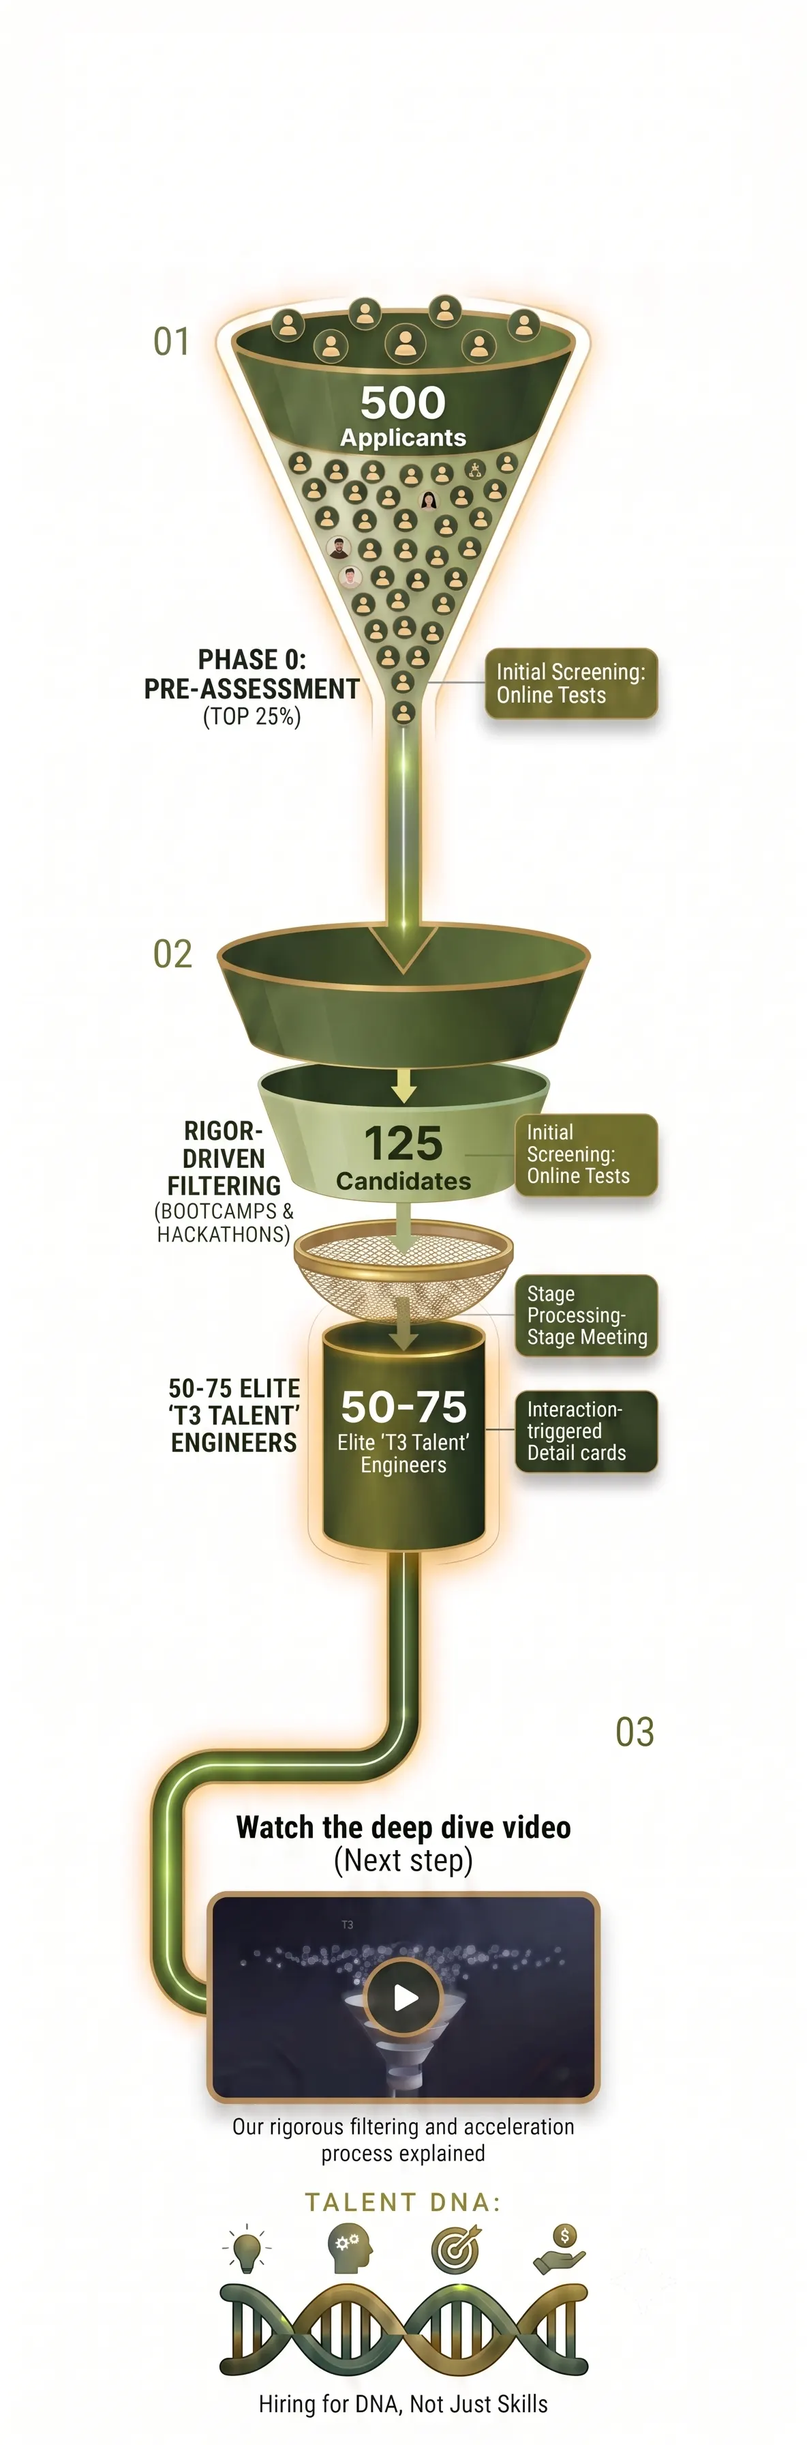
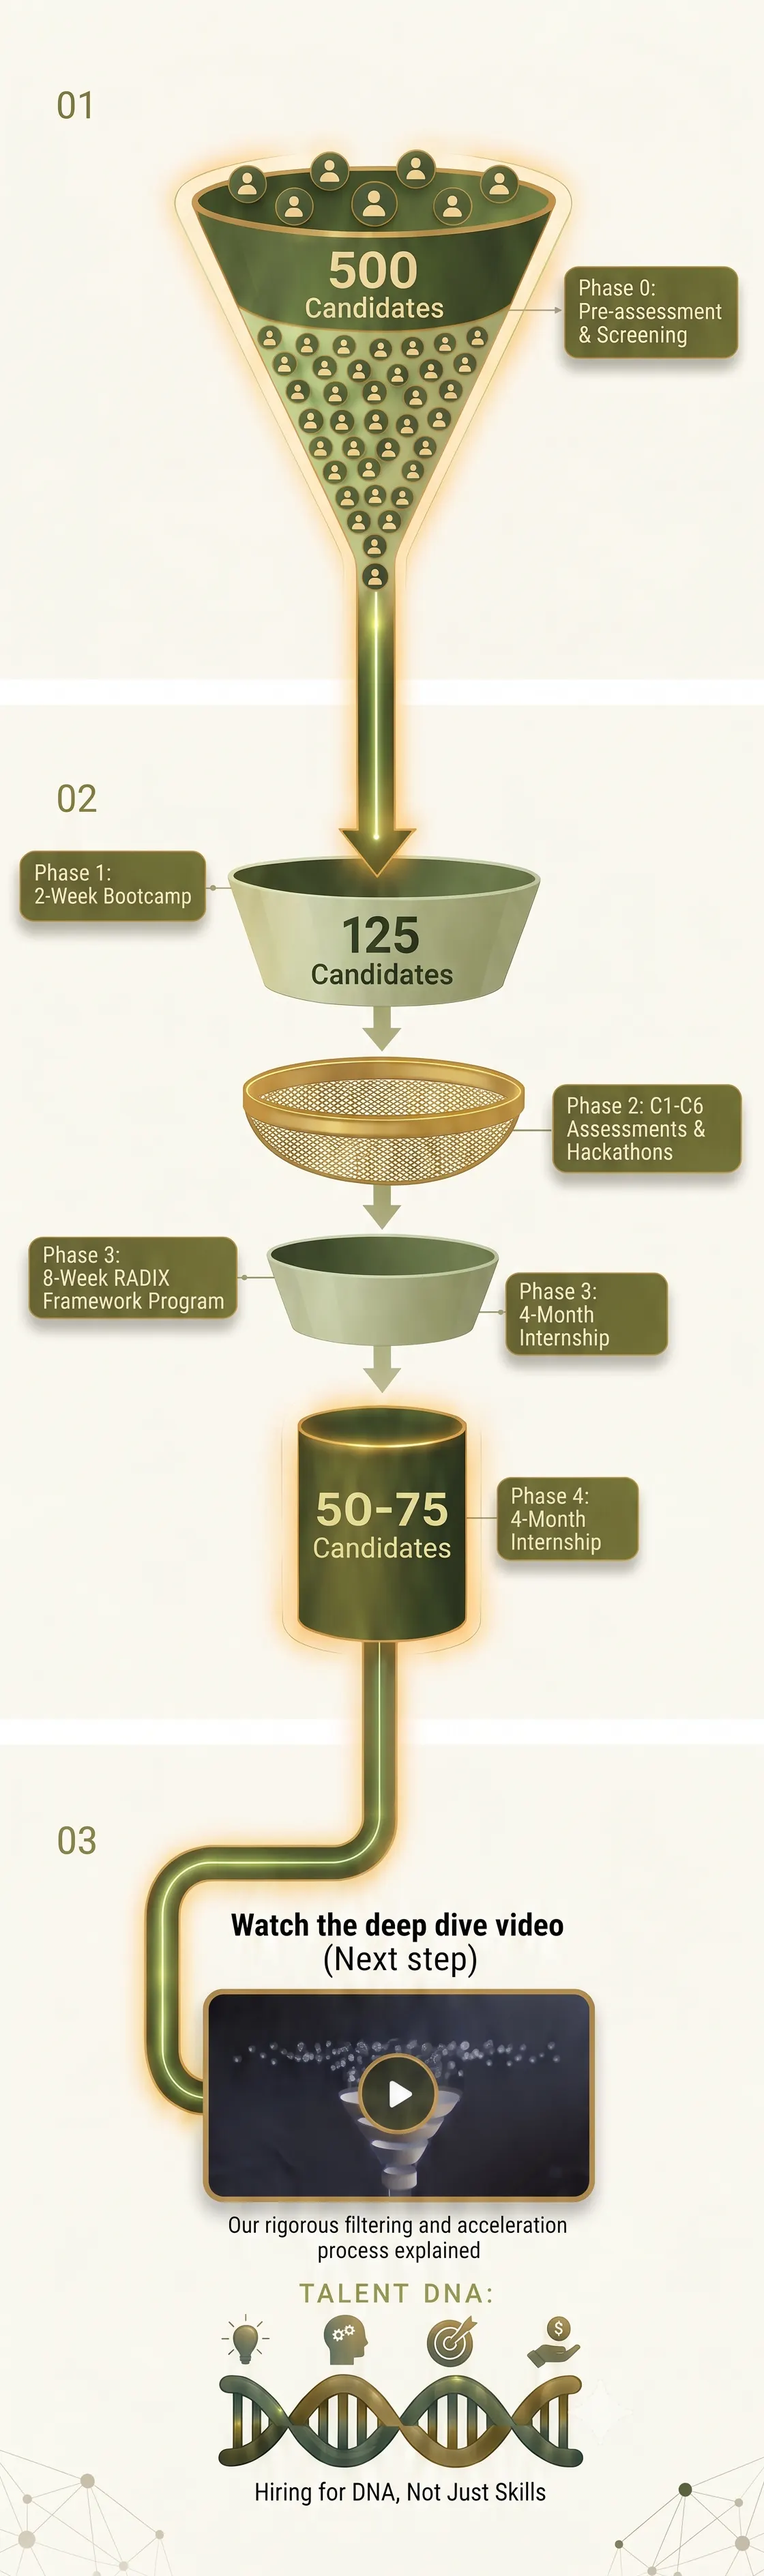
feat: update funnel and made responsive

diff --git a/src/components/PrecisionPipeline.tsx b/src/components/PrecisionPipeline.tsx
@@ -17,20 +17,9 @@ const EDGE_FADE: React.CSSProperties = {
   WebkitMaskComposite: 'source-in',
 };
 
-const PAPER = '#f5f5f0';
-
 // The tall artwork has its copy, video still and play button drawn in, so only the video needs a
-// live control. Shown is its content box, x 189-995 and y 400-3576 of 1184x3584; everything on top
-// is placed in % of that box. Its paper is white, so it is multiplied onto the page colour.
-// Drawn into the artwork but not part of the design: the 01 / 02 / 03 screen markers and a
-// faint sparkle mark beside the DNA strand.
-const MOBILE_COVERS = [
-  { left: '2.85%', top: '2.015%', width: '9.31%', height: '2.204%' },
-  { left: '2.85%', top: '30.29%', width: '10.3%', height: '2.204%' },
-  { left: '87.1%', top: '66.18%', width: '10.05%', height: '2.236%' },
-  { left: '88.83%', top: '90.37%', width: '11.17%', height: '4.72%' },
-];
-
+// live control, placed in % of the image. Its paper is a shade off the page colour, with white
+// bands between its screens, so it is darken-blended onto the page colour to lose both.
 function MobilePipeline() {
   return (
     <div className="relative">
@@ -58,35 +47,26 @@ function MobilePipeline() {
         whileInView={{ opacity: 1, y: 0 }}
         viewport={{ once: true, amount: 0.05 }}
         transition={{ duration: 0.7 }}
-        className="relative mx-auto aspect-[806/3176] w-full max-w-[30rem] overflow-hidden [container-type:inline-size]"
-        style={{ backgroundColor: PAPER }}
+        className="relative mx-auto aspect-[1120/3776] w-full max-w-[30rem] bg-[#f5f5f0] [container-type:inline-size]"
       >
         <img
           src={FUNNEL_MOBILE}
-          alt="Selection pipeline. Phase 0 pre-assessment: 500 applicants are screened with online tests and the top 25% go through. Rigor-driven filtering: 125 candidates are narrowed through bootcamps and hackathons into 50 to 75 elite T3 Talent engineers. Next step: watch the deep dive video explaining our filtering and acceleration process. Talent DNA: hiring for DNA, not just skills."
-          className="absolute max-w-none mix-blend-multiply"
-          style={{ width: '146.9%', left: '-23.449%', top: '-12.594%' }}
+          alt="Selection pipeline. 500 candidates enter Phase 0 pre-assessment and screening. 125 candidates go through the Phase 1 two-week bootcamp, the Phase 2 C1-C6 assessments and hackathons and the Phase 3 eight-week RADIX framework program, and 50 to 75 candidates reach the Phase 4 four-month internship. Next step: watch the deep dive video explaining our filtering and acceleration process. Talent DNA: hiring for DNA, not just skills."
+          className="absolute inset-0 h-full w-full mix-blend-darken"
         />
-        {MOBILE_COVERS.map((box) => (
-          <div
-            key={box.top}
-            aria-hidden="true"
-            className="absolute"
-            style={{ ...box, backgroundColor: PAPER }}
-          />
-        ))}
         {/* sits on the drawn video frame; the launcher's own preview stays hidden so the artwork shows */}
         <VideoLauncher
           src={VIDEO_SRC}
           label="Play the deep dive video"
-          className="absolute left-[14.02%] top-[74.685%] h-[9.761%] w-[71.71%] rounded-[3.4cqw] focus-visible:outline-2 focus-visible:outline-offset-2 focus-visible:outline-[#4a5d23] [&>video]:opacity-0"
+          className="absolute left-[26.52%] top-[77.17%] h-[8.34%] w-[51.43%] rounded-[2cqw] focus-visible:outline-2 focus-visible:outline-offset-2 focus-visible:outline-[#4a5d23] [&>video]:opacity-0"
         />
       </motion.div>
     </div>
   );
 }
 
-// The artwork has wide empty margins, so only its content box is shown: x 7.15%-91%, y 26.5%-96%, so the content sits centred.
+// The artwork has wide empty margins, so only its content box is shown: x 3.5%-91%, y 8.5%-96%, so the content sits centred.
+// The tier numbers and phase labels are drawn into the artwork.
 // Overlays are positioned in % of that box and sized in cqw, so it scales like one picture.
 // Below md the tall MobilePipeline artwork is rendered instead.
 export default function PrecisionPipeline() {
@@ -134,44 +114,30 @@ function DesktopPipeline() {
           whileInView={{ opacity: 1, y: 0 }}
           viewport={{ once: true }}
           transition={{ duration: 0.7 }}
-          className="relative mx-auto aspect-[1677/780] w-full min-w-[51.25rem] [container-type:inline-size]"
+          className="relative mx-auto aspect-[2750/1536] w-full min-w-[51.25rem] [container-type:inline-size]"
         >
           <div className="absolute inset-0 overflow-hidden" style={EDGE_FADE}>
             <img
               src={FUNNEL}
-              alt="Selection funnel: 500 applicants are screened online, narrowed through bootcamps and hackathons, and emerge as 50 to 75 elite T3 Talent engineers."
+              alt="Selection funnel: 500 candidates enter Phase 0 pre-assessment and screening, 125 candidates go through the Phase 1 two-week bootcamp, the Phase 2 C1-C6 assessments and hackathon and the Phase 3 eight-week RADIX framework program, and 50 to 75 candidates reach the Phase 4 four-month internship."
               className="absolute max-w-none"
-              style={{ width: '119.26%', left: '-8.527%', top: '-38.129%' }}
+              style={{ width: '114.286%', left: '-4%', top: '-9.714%' }}
             />
             {/* covers the sparkle mark baked into the artwork's corner */}
             <div
               aria-hidden="true"
-              className="absolute left-[97.6%] top-[78.4%] h-[10.8%] w-[6.5%] bg-[radial-gradient(circle,#f1eee4_55%,transparent_75%)]"
+              className="absolute left-[97.7%] top-[82.85%] h-[8.6%] w-[6.2%] bg-[radial-gradient(circle,#f5f5f0_55%,transparent_75%)]"
             />
           </div>
 
-          {/* numbers on the funnel tiers */}
-          <p className="absolute left-[28.4%] top-[23.5%] -translate-x-1/2 -translate-y-1/2 whitespace-nowrap font-bold text-white drop-shadow">
-            <span className="text-[3.1cqw]">500</span>{' '}
-            <span className="text-[1.75cqw]">Applicants</span>
-          </p>
-          <p className="absolute left-[28.4%] top-[43.3%] -translate-x-1/2 -translate-y-1/2 text-center font-bold leading-[1.05] text-[#1f2a10]">
-            <span className="block text-[3.35cqw]">125</span>
-            <span className="block text-[1.75cqw]">Candidates</span>
-          </p>
-          <p className="absolute left-[28.8%] top-[77%] w-[11.5cqw] -translate-x-1/2 -translate-y-1/2 text-center font-bold leading-[1.05] text-white drop-shadow">
-            <span className="block text-[3.1cqw]">50-75</span>
-            <span className="block text-[1.15cqw]">Elite &lsquo;T3 Talent&rsquo; Engineers</span>
-          </p>
-
           {/* video, joined to the funnel by the pipe in the artwork */}
-          <p className="absolute left-[63.5%] top-[2.4%] w-[34%] whitespace-nowrap text-center text-[1.5cqw] font-semibold leading-none tracking-tight text-[#232621]">
+          <p className="absolute left-[65%] top-[22.5%] w-[32.6%] whitespace-nowrap text-center text-[1.45cqw] font-semibold leading-none tracking-tight text-[#232621]">
             Watch the deep dive video <span className="font-medium">(Next step)</span>
           </p>
           <VideoLauncher
             src={VIDEO_SRC}
             label="Play the deep dive video"
-            className="absolute left-[65.6%] top-[9.6%] aspect-[2/1] w-[29.8%] rounded-[1.45cqw] border-[0.5cqw] border-[#b79b55] bg-[#0b1220] shadow-xl"
+            className="absolute left-[67.04%] top-[28.2%] aspect-[2/1] w-[28.56%] rounded-[1.45cqw] border-[0.5cqw] border-[#b79b55] bg-[#0b1220] shadow-xl"
           >
             <span className="absolute inset-0 grid place-items-center">
               <span className="relative grid h-[5cqw] w-[5cqw] place-items-center transition-transform duration-300 group-hover:scale-105">
@@ -192,15 +158,15 @@ function DesktopPipeline() {
               </span>
             </span>
           </VideoLauncher>
-          <p className="absolute left-[65.6%] top-[43.3%] w-[29.8%] text-center text-[1.5cqw] leading-snug text-gray-800">
+          <p className="absolute left-[67.04%] top-[55%] w-[28.56%] text-center text-[1.45cqw] leading-snug text-gray-800">
             Our rigorous filtering and acceleration process explained
           </p>
 
           {/* talent DNA */}
-          <p className="absolute left-[65.6%] top-[55.4%] w-[29.8%] text-center text-[1.7cqw] font-semibold uppercase leading-none tracking-[0.18em] text-[#4a5d23]">
+          <p className="absolute left-[67.04%] top-[64.6%] w-[28.56%] text-center text-[1.65cqw] font-semibold uppercase leading-none tracking-[0.18em] text-[#4a5d23]">
             Talent DNA:
           </p>
-          <p className="absolute left-[65.6%] top-[91.4%] w-[29.8%] text-center text-[1.55cqw] font-medium leading-tight tracking-tight text-gray-700">
+          <p className="absolute left-[67.04%] top-[93.2%] w-[28.56%] text-center text-[1.5cqw] font-medium leading-tight tracking-tight text-gray-700">
             Hiring for DNA, Not Just Skills
           </p>
         </motion.div>
